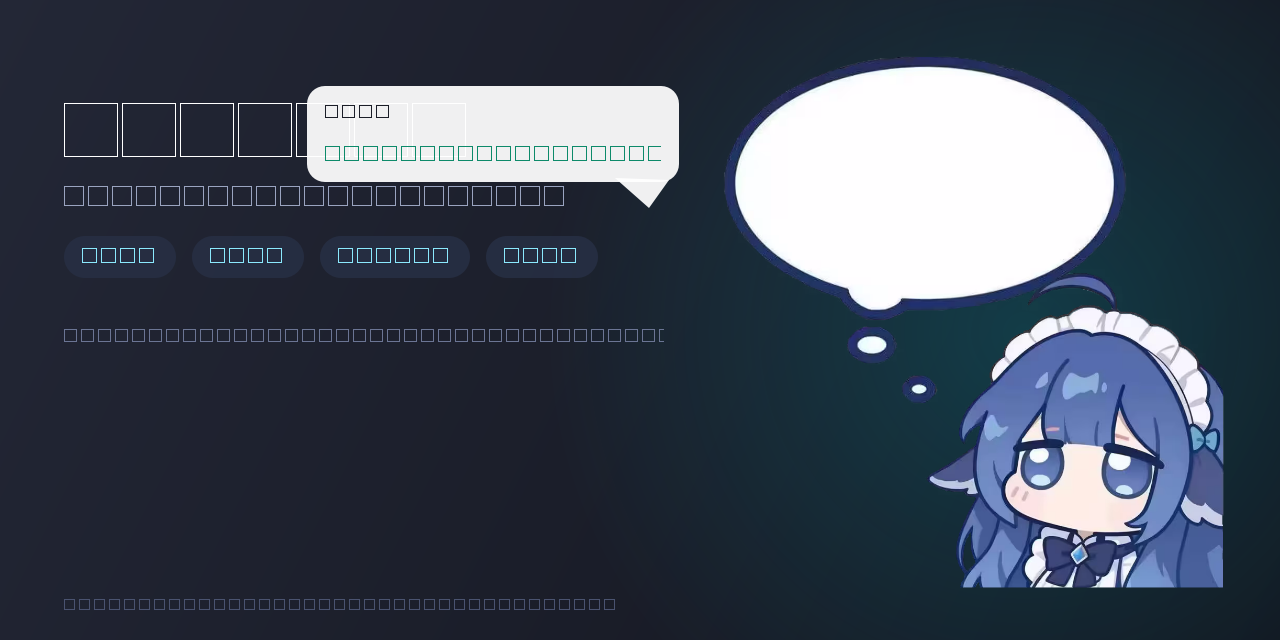
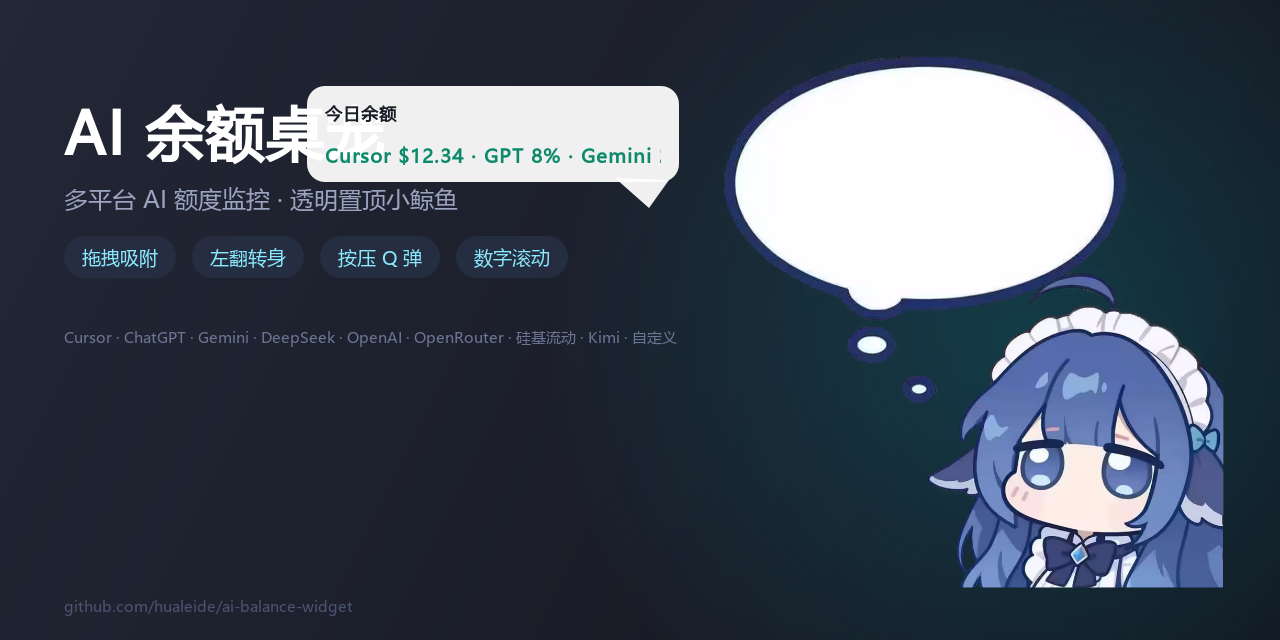
修复横幅文字渲染成方块：offscreen 下手动加载雅黑字体，平台列表加 OpenAI

diff --git a/tools/make_banner.py b/tools/make_banner.py
@@ -20,6 +20,7 @@ from PySide6.QtGui import (
     QBrush,
     QColor,
     QFont,
+    QFontDatabase,
     QFontMetrics,
     QLinearGradient,
     QPainter,
@@ -33,13 +34,42 @@ W, H = 1280, 640
 OUT = os.path.join(ROOT, "assets", "banner.png")
 WHALE = os.path.join(ROOT, "assets", "DSniang02.png")
 
+# offscreen 平台下 Qt 读不到系统字体，所有字会渲染成方块，必须手动加载字体文件
+CJK_FONT_CANDIDATES = [
+    r"C:\Windows\Fonts\msyh.ttc",        # 微软雅黑（含 UI 变体）
+    r"C:\Windows\Fonts\msyhbd.ttc",      # 微软雅黑 Bold
+    r"C:\Windows\Fonts\simhei.ttf",      # 黑体
+    r"C:\Windows\Fonts\simsun.ttc",      # 宋体
+    "/System/Library/Fonts/PingFang.ttc",
+    "/usr/share/fonts/opentype/noto/NotoSansCJK-Regular.ttc",
+]
+
+_FAMILY = "Microsoft YaHei UI"
+
+
+def load_cjk_font() -> str | None:
+    """手动加载一个中文字体，返回可用家族名；找不到返回 None。"""
+    global _FAMILY
+    for path in CJK_FONT_CANDIDATES:
+        if not os.path.isfile(path):
+            continue
+        fid = QFontDatabase.addApplicationFont(path)
+        if fid < 0:
+            continue
+        fams = QFontDatabase.applicationFontFamilies(fid)
+        if fams:
+            _FAMILY = fams[0]
+            return _FAMILY
+    return None
+
+
 ACCENT = QColor("#8be9fd")
 BODY = QColor("#9aa4c0")
 DIM = QColor("#6b7594")
 
 
 def font(size: int, bold: bool = False) -> QFont:
-    f = QFont("Microsoft YaHei UI")
+    f = QFont(_FAMILY)
     f.setPixelSize(size)
     f.setBold(bold)
     return f
@@ -47,6 +77,8 @@ def font(size: int, bold: bool = False) -> QFont:
 
 def main() -> None:
     app = QApplication(sys.argv)
+    fam = load_cjk_font()
+    print("字体:", fam or "未找到中文字体（文字会渲染成方块）")
 
     pix = QPixmap(W, H)
     pix.fill(QColor("#1b1e28"))
@@ -90,11 +122,11 @@ def main() -> None:
         p.drawText(QRectF(x, 236, w, 42), Qt.AlignCenter, c)
         x += w + 16
 
-    # 平台列表
+    # 平台列表（15px 才能完整放下 9 个平台名）
     p.setPen(DIM)
-    p.setFont(font(17))
+    p.setFont(font(15))
     p.drawText(
-        QRectF(64, 322, 600, 30),
+        QRectF(64, 322, 620, 30),
         Qt.AlignLeft | Qt.AlignVCenter,
         "Cursor · ChatGPT · Gemini · DeepSeek · OpenAI · OpenRouter · 硅基流动 · Kimi · 自定义",
     )

diff --git a/_text_test.py b/_text_test.py
@@ -1,0 +1,43 @@
+import os
+import sys
+
+os.environ.setdefault("QT_QPA_PLATFORM", "offscreen")
+sys.path.insert(0, "tools")
+sys.path.insert(0, ".")
+
+from PySide6.QtCore import QRectF, Qt
+from PySide6.QtGui import QColor, QFont, QPainter, QPixmap
+from PySide6.QtWidgets import QApplication
+
+app = QApplication([])
+
+OLD = "Cursor · ChatGPT · Gemini · DeepSeek · OpenRouter · 硅基流动 · Kimi · 自定义"
+NEW = "Cursor · ChatGPT · Gemini · DeepSeek · OpenAI · OpenRouter · 硅基流动 · Kimi · 自定义"
+
+
+def render(text: str, path: str):
+    pix = QPixmap(1280, 640)
+    pix.fill(QColor("#13151e"))
+    p = QPainter(pix)
+    f = QFont("Microsoft YaHei UI")
+    f.setPixelSize(17)
+    p.setFont(f)
+    p.setPen(QColor("#6b7594"))
+    p.drawText(QRectF(64, 322, 600, 30), Qt.AlignLeft | Qt.AlignVCenter, text)
+    p.end()
+    pix.save(path)
+
+
+render(OLD, "_old.png")
+render(NEW, "_new.png")
+
+import hashlib
+
+
+def h(p):
+    return hashlib.md5(open(p, "rb").read()).hexdigest()
+
+
+print("old:", h("_old.png"))
+print("new:", h("_new.png"))
+print("identical:", h("_old.png") == h("_new.png"))
